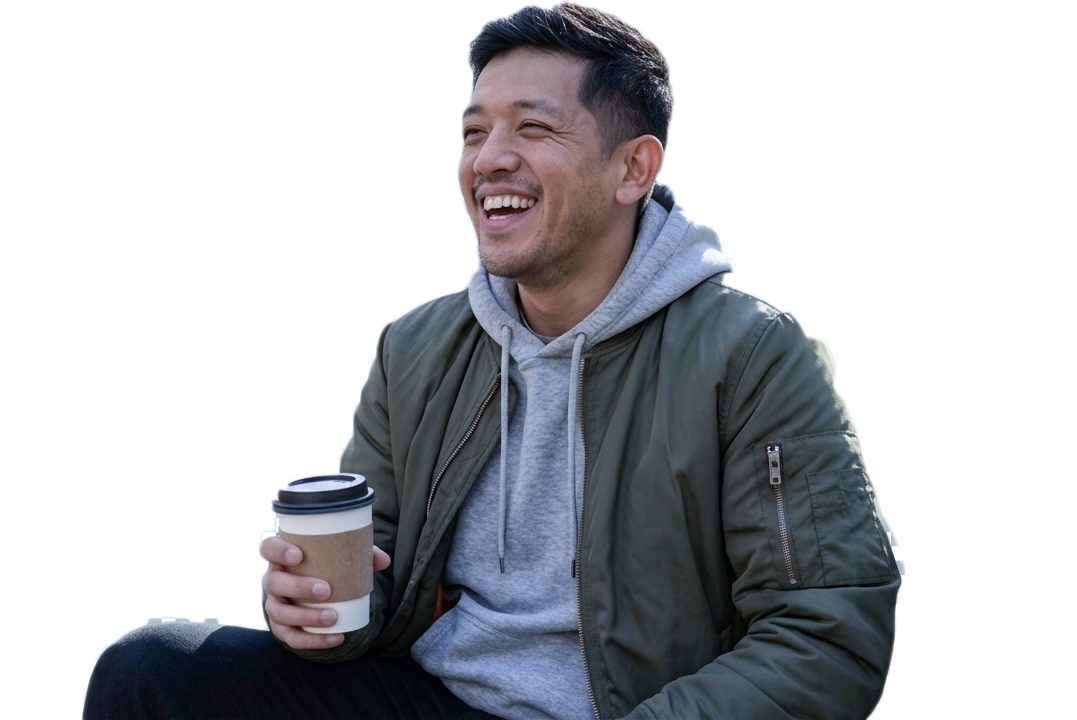
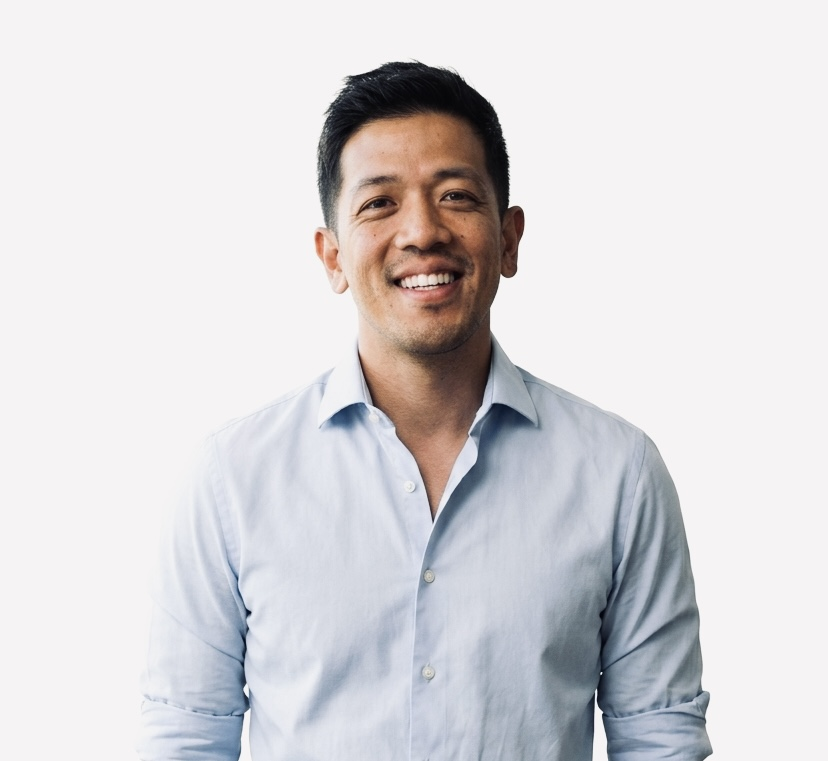
Profile update

diff --git a/script.js b/script.js
@@ -1,3 +1,4 @@
+
 async function loadHTML(elementID , file) {
     try{
 
@@ -9,6 +10,30 @@ async function loadHTML(elementID , file) {
         console.error(error);
     }
 }
-loadHTML("navbar" , "navbar.html");
-loadHTML("content" , "content.html");
-loadHTML("footer" , "footer.html");
+
+// typing effect
+
+const text = " Hi, I am Bhuwan a Junior Full-Stack Developer" ; 
+let i = 0 ; 
+function type(){
+    const element =  document.getElementById("type");
+  if(i < text.length){
+    element.innerHTML += text.charAt(i);
+    i++ ;
+    setTimeout(type , 300);
+  }
+}
+setInterval(() =>{
+    document.getElementById("cursor").classList.toggle("invisible");
+}, 550);
+
+async function init() {
+    await loadHTML("navbar", "navbar.html");
+    await loadHTML("content", "content.html");
+    await loadHTML("footer", "footer.html");
+
+    type();
+
+}
+
+init();

diff --git a/content.html b/content.html
@@ -1,29 +1,34 @@
 <!--Home-->
 <div id="home" class="flex items-center justify-between bg-blue-300 p-40">
   <div>
-    <h2 class="text-2xl font-bold">Hi, Bhuwan I am Full-Stack Developer</h2>
-    <p class="text-2xl">
-      I build websites <br />
-      I solve business problems with web solutions
+    <h2 class="text-7xl font-bold font-mono">
+      <span id="type"></span>
+      <span id="cursor">|</span>
+    </h2>
+    <br />
+    <p class="text-4xl">
+      seeking an opportunity to launch my career in <br />Web development
     </p>
   </div>
 
-  <img src="image/myPic.png" alt="my pic" class="w-5/12 h-auto" />
+  <img src="image/myImg.PNG" alt="my pic" class="w-4/12 h-auto" />
 </div>
 
 <!--about me -->
 <div id="aboutme" class="flex-5 bg-blue-300 p-40">
-  <h3 class="text-lg">
+  <h3 class="text-4xl">
     After several years as a Team Coordinator at the Austrian Post, I discovered
     <br />
-    my professional passion for programming and writing code, which inspired me
+    my professional passion for programming , Which motivated to begin
     <br />
-    to pursue a career change into the tech industry.
+    my career in the tech industry.
     <br /><br />
-    In 2025, I completed my training as a Java Software Developer, and I’m
-    currently <br />
-    expanding my skills with web development. <br />I enjoy learning new
-    technologies, and building things with code.
+    In 2025, I completed my training as a Java Software Developer at Wifi vienna
+    (Austria), where i gained a solid foundation in software development, OOP ,
+    Database and web technologies.
+    <br />
+    Currently, I am studying Web Development at FernFH, where I am learning the
+    fundamentals of DevOps, Web Security, PHP, and modern Frontend Frameworks
   </h3>
 </div>
 <!-- my skills  -->

diff --git a/navbar.html b/navbar.html
@@ -1,7 +1,7 @@
 <nav class="bg-blue-300 text-lg shadow-xl fixed w-full top-0 start-0 end-0">
   <div class="container mx-auto flex justify-between items-center p-4">
     <h2>My Profile</h2>
-    <ul class="flex gap-44 text-black">
+    <ul class="flex gap-36 text-black">
       <li><a href="#home">Home</a></li>
       <li><a href="#aboutme">About me</a></li>
       <li><a href="#skill">my skills</a></li>

diff --git a/index.html b/index.html
@@ -8,6 +8,7 @@
   </head>
   <body>
     <div id="navbar"></div>
+
     <main>
       <!--content-->
       <div id="content"></div>